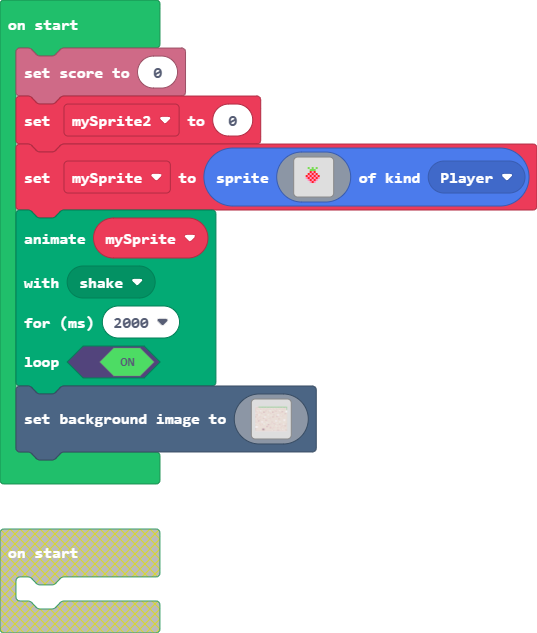
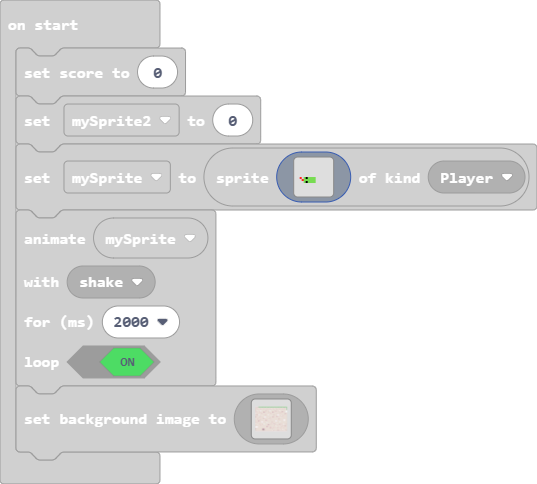
Snake sprite

diff --git a/images.g.ts b/images.g.ts
@@ -3,25 +3,6 @@ namespace myImages {
 
     helpers._registerFactory("image", function(name: string) {
         switch(helpers.stringTrim(name)) {
-            case "image10":
-            case "forestSnake2":return img`
-. . . . . . . . . . . . . . . . 
-. . . . . . . . . . . . . . . . 
-. . . . . . . . . . . . . . . . 
-. . . . . . . . . . . . . . . . 
-. . . . . . . . . . . . . . . . 
-. . . . . . . . . . . . . . . . 
-. . . . . . . . . . . . . . . . 
-. . . . . . . . . . . . . . . . 
-. 2 . 7 f 7 7 7 7 . . . . . . . 
-. . 2 7 7 7 7 7 7 . . . . . . . 
-. . . 7 f 7 7 7 7 . . . . . . . 
-. . . . . . . . . . . . . . . . 
-. . . . . . . . . . . . . . . . 
-. . . . . . . . . . . . . . . . 
-. . . . . . . . . . . . . . . . 
-. . . . . . . . . . . . . . . . 
-`;
             case "image4":
             case "potion10":return img`
 ....................
@@ -270,6 +251,25 @@ dddddddddddddddddddddddddddddddddddddddddddddddddddddddddddddddddddddddddddddddd
 ddddddddddddddddddddddddddddddddddddddddddddddddddddddddddddddddddddddddddddddddddddddddddddbbbbbddddddddddddddddddddddddddddddddddddddddddddddddddddddddddddddd
 dddddddddddddddddddddddddddddddddddddddddddddddddddddddddddddddddddddddddddddddddddddddddddddddddddddddddddddddddddddddddddddddddddddddddddddddddddddddddddddddd
[1 lines of base64/hex data omitted]
+`;
+            case "image10":
+            case "forestSnake2":return img`
+. . . . . . . . . . . . . . . . 
+. . . . . . . . . . . . . . . . 
+. . . . . . . . . . . . . . . . 
+. . . . . . . . . . . . . . . . 
+. . . . . . . . . . . . . . . . 
+. . . . . . . . . . . . . . . . 
+. . . . . . . . . . . . . . . . 
+. . . . . . . . . . . . . . . . 
+. 2 . 7 f 7 7 7 7 . . . . . . . 
+. . 2 7 7 7 7 7 7 . . . . . . . 
+. . . 7 f 7 7 7 7 . . . . . . . 
+. . . . . . . . . . . . . . . . 
+. . . . . . . . . . . . . . . . 
+. . . . . . . . . . . . . . . . 
+. . . . . . . . . . . . . . . . 
+. . . . . . . . . . . . . . . . 
 `;
         }
         return null;

diff --git a/main.ts b/main.ts
@@ -1,6 +1,6 @@
 info.setScore(0)
 let mySprite2 = 0
-let mySprite = sprites.create(assets.image`myImage1`, SpriteKind.Player)
+let mySprite = sprites.create(assets.image`forestSnake2`, SpriteKind.Player)
 animation.runMovementAnimation(
 mySprite,
 animation.animationPresets(animation.shake),
